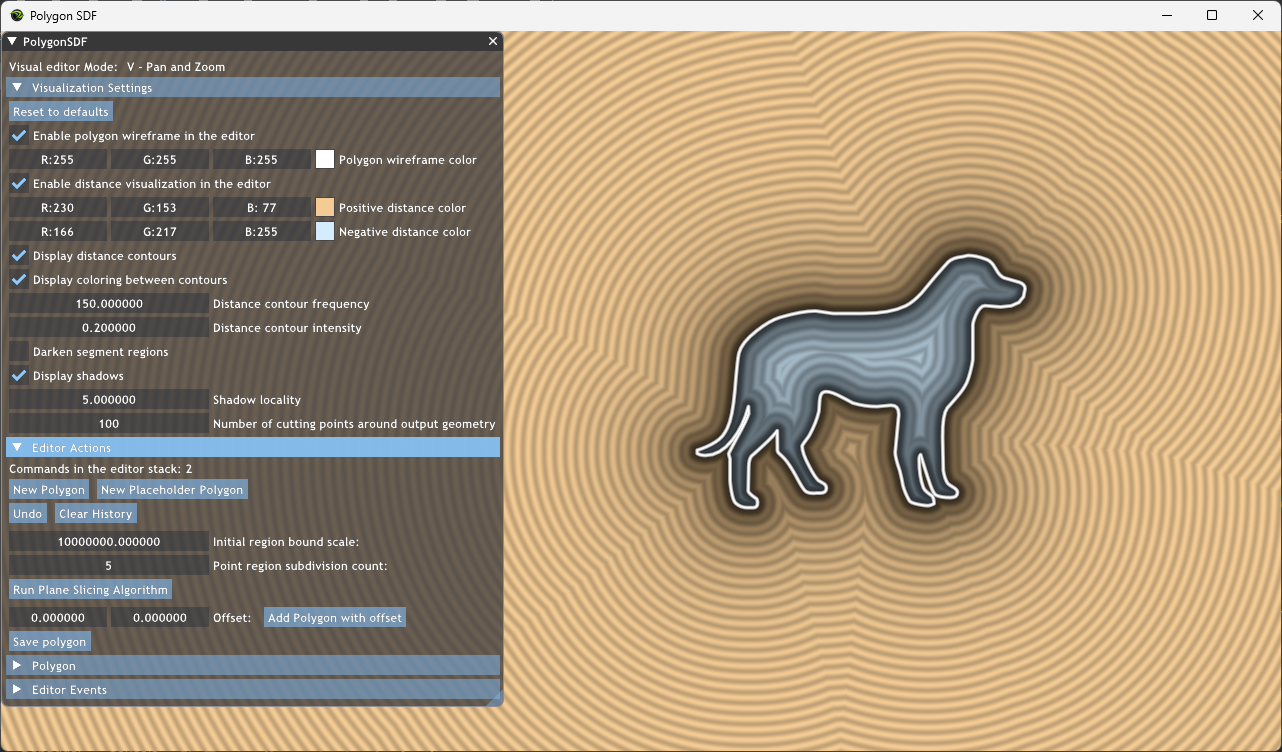
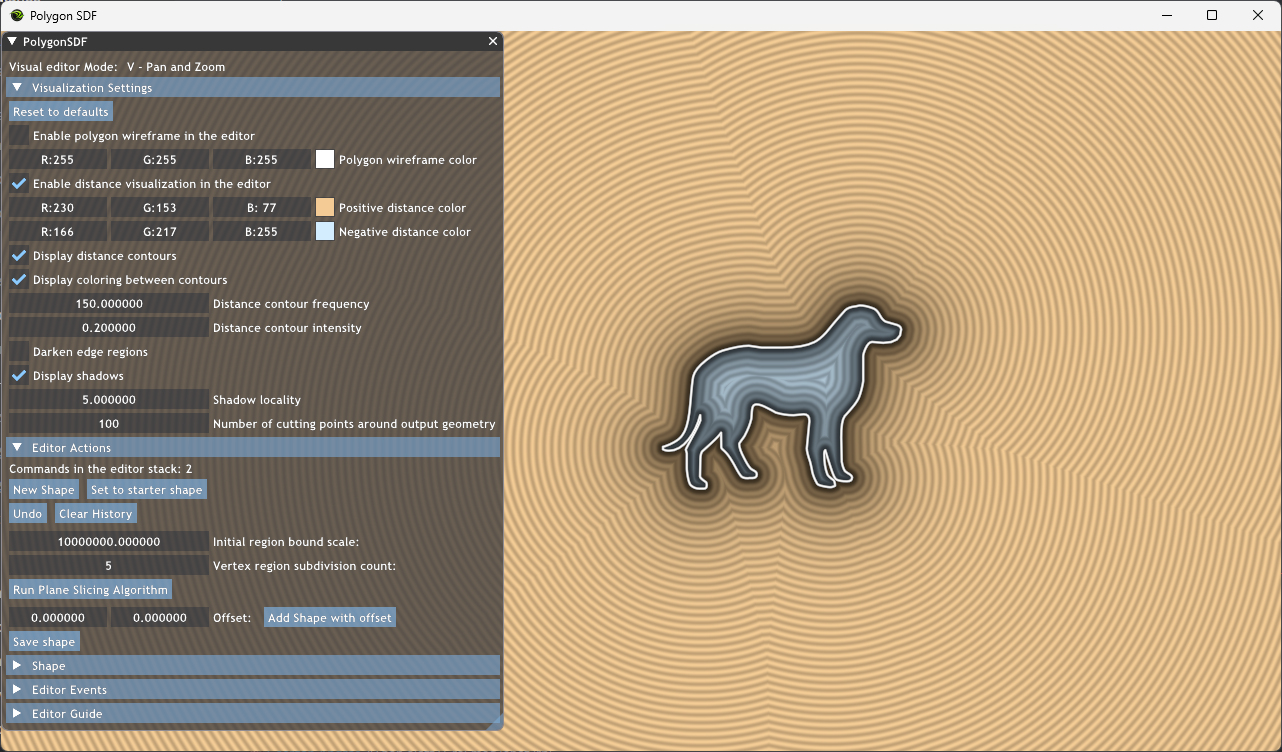
Update the user documentation based on feedback received from my supervisor

diff --git a/Thesis/content/user.tex b/Thesis/content/user.tex
@@ -7,7 +7,7 @@
 Az alkalmazásnak három fő célja van:
 \begin{enumerate}
     \item Biztosítani egy szerkesztőt, amivel bármilyen 2D-s sokszög elkészíthető.
-    \item Lehetőséget adni arra, hogy az elkészített poligonon lefuttassuk az algoritmust.
+    \item Lehetőséget adni arra, hogy az elkészített alazatra lefuttassuk az algoritmust.
     \item Személyreszabható és látványos módon vizualizáni a kiértékelt távolságfüggvényt
 \end{enumerate}
 
@@ -36,9 +36,9 @@ A program nem rendelkezik telepítővel, a mellékelt állomány kicsomagolása 
 
 \section{Szerkesztői nézet}
 
-Az alkalmazás indítása után a felhasználót a szerkesztői nézet fogadja, amelyben egy előre meghatározott poligon jelenik meg. Egy poligon több "alpoligonból" áll, minden alpoligont annak csúcspontjaival adjuk meg, ahol a megadási sorrend határozza meg azt, hogy hogy kötjük őket össze. A távolság előjelét az határozza meg, hogy az adott pont páros vagy páratlan számú sokszögön belül van-e, ami páros esetén pozitív és páratlan esetén negatív távolságot eredményez.
+Az alkalmazás indítása után a felhasználót a szerkesztői nézet fogadja, amelyben egy előre meghatározott alakzat jelenik meg. Egy alakzat több poligonból áll, minden poligont annak csúcspontjaival adjuk meg, ahol a megadási sorrend határozza meg azt, hogy hogy kötjük őket össze. A távolság előjelét az határozza meg, hogy az adott pont páros vagy páratlan számú sokszögön belül van-e, ami páros esetén pozitív és páratlan esetén negatív távolságot eredményez.
 
-A szerkesztőben lehetőségünk van alpoligonok felvételére, mozgatására és törlésére, valamint csúcspontjaik módosítására. Ezen műveleteket kétféle módon is elvégezhetjük, a vizuális szerkesztővel, a billentyűzet és egérmozdulatok segítségével, vagy a GUI-n elhelyezett beviteli mezőkkel és gombokkal. Amikor elkészültünk a szerkesztéssel, az algoritmust is ezen felületen keresztül futtathatjuk le.
+A szerkesztőben lehetőségünk van poligonok felvételére, mozgatására és törlésére, valamint csúcspontjaik módosítására. Ezen műveleteket kétféle módon is elvégezhetjük, a vizuális szerkesztővel, a billentyűzet és egérmozdulatok segítségével, vagy a GUI-n elhelyezett beviteli mezőkkel és gombokkal. Amikor elkészültünk a szerkesztéssel, az algoritmust is ezen felületen keresztül futtathatjuk le.
 
 \begin{figure}[H]
     \centering
@@ -69,19 +69,18 @@ Ebben a szekcióban állíthatjuk be az objektumunk megjelenítését. Bizonyos 
 \textbf{Elérhető beállítások}
 
 \begin{description}
-    \item[Körvonal engedélyezése] Ki- és bekapcsolhatjuk a poligon körvonalának megjelenítését.
-    \item[Körvonal szín] Kiválaszthatjuk, hogy milyen RGB értékkel kerüljön kirajzolásra a körvonal.
-    \item[Távolság megjelenítésének engedélyezése] Szabályozhatjuk, hogy az alkalmazás rajzolja-e a távolságot. Ez egy viszonylag drága beaállítás, mert a minden kiszínezett pixelre a képernyőn ki kell értékelni a távolságot.
-    \item[Távolság pozitív tartományának színe] Megadhatjuk, hogy a pozitív tartomány színezésekor milyen alapszínt használjon a program
-    \item[Távolság negatív tartományának színe] Megadhatjuk, hogy a negatív tartomány színezésekor milyen alapszínt használjon a program
-    \item[Távolsági kontúrok megjelenítése] Kontúrok megjelenítésének szabályozása.
-    \item[Kontúrok közötti tartomány kitöltése] Beállítás a kontúrok közötti tartomány színezésére. Amennyiben le van tiltva a kontúrok közötti terület nem kerül színezésre.
-    \item[Távolsági kontúrvonalak frekvenciája] A távolság megjelenítéséhez használt kontúrvonalak gyakorisága. A magasabb megadott érték sűrűbben elhelyezkedő kontúrvonalakat eredményez.
-    \item[Távolsági kontúrvonalak intenzitása] Megadja, hogy színezéskor mennyivel súlyozzuk a kontúr színét a háttérhez képest. Nulla értékű intenzitással nincsenek kontúrvonalak, egy értéknél pedig nincs színezés közöttük.
-    \item[Árnyék megjelenítése] Ki- és bekapcsolhatjuk az árnyékok rajzolását a poligon körvonala mentén. A háromdimenziós nézetben fontos szerepe van az árnyéknak, mert információt ad a geometria mélységéről.
-    \item[Árnyék lokalitása] A beállított értékkel megszabhatjuk, hogy mekkora területre terjedjen ki az árnyék. Nagyobb érték esetén az árnyékolt rész kisebb, gyorsabban veszít az intenzitásából, ahogy a távolság növekedik.
-    \item[Szakaszokhoz tartozó régiók elsötétítése] Ezzel a beállítással látványosabbá tehetjük azt, hogy egy adott pontban a poligon egy szakaszához, vagy egy csúcsához van-e közelebb. A szakaszokhoz közelebbi pontokhoz tartozó pixelek sötétebb színt kapnak.
-    \item[Az algoritmus kimenetének körbevágásához használt pontok száma] Az algoritmus egy \textit{"végtelenül nagy"} síkkal dolgozik. Megjelenítés előtt ezt a síkot az alkalmazás a poligon középpontja körül egy a poligon méretétől függő sugarú körív mentén körbevágja. A beviteli mezővel a vágáshoz használt pontok számát szabályozhatjuk.
+    \item[Enable polygon wireframe in the editor] \textit{Körvonal engedélyezése} -- Ki- és bekapcsolhatjuk az alakzat körvonalának megjelenítését.
+    \item[Polygon wireframe color] \textit{Körvonal szín} -- Kiválaszthatjuk, hogy milyen RGB értékkel kerüljön kirajzolásra a körvonal.
+    \item[Enable distance visualization in the editor] \textit{Távolság megjelenítése} -- Szabályozhatjuk, hogy az alkalmazás rajzolja-e a távolságot. Ez egy viszonylag drága beaállítás, mert a minden kiszínezett pixelre a képernyőn ki kell értékelni a távolságot.
+    \item[Positive distance color] \textit{Távolság pozitív tartományának színe} -- Megadhatjuk, hogy a pozitív tartomány színezésekor milyen alapszínt használjon a program
+    \item[Negative distance color] \textit{Távolság negatív tartományának színe} -- Megadhatjuk, hogy a negatív tartomány színezésekor milyen alapszínt használjon a program
+    \item[Display distance contours] \textit{Távolsági kontúrok megjelenítése} -- A beállított értékkel megszabhatjuk, hogy mekkora területre terjedjen ki az árnyék. Nagyobb érték esetén az árnyékolt rész kisebb, gyorsabban veszít az intenzitásából, ahogy a távolság növekedik.
+    \item[Display coloring between contours] \textit{Kontúrok közötti tartomány kitöltése} -- Ezzel a beállítással látványosabbá tehetjük azt, hogy egy adott pontban az alakzat egy éléhez, vagy egy csúcsához van-e közelebb. Az élekhez közelebbi pontokhoz tartozó pixelek sötétebb színt kapnak.
+    \item[Distance contour frequency] \textit{Távolsági kontúrvonalak frekvenciája} -- Kontúrok megjelenítésének szabályozása.
+    \item[Distance contour intensity] \textit{Távolsági kontúrvonalak intenzitása} -- Beállítás a kontúrok közötti tartomány színezésére. Amennyiben le van tiltva a kontúrok közötti terület nem kerül színezésre.
+    \item[Display shadows] \textit{Árnyék megjelenítése} -- A távolság megjelenítéséhez használt kontúrvonalak gyakorisága. A magasabb megadott érték sűrűbben elhelyezkedő kontúrvonalakat eredményez.
+    \item[Shadow locality] \textit{Árnyék lokalitása} -- Megadja, hogy színezéskor mennyivel súlyozzuk a kontúr színét a háttérhez képest. Nulla értékű intenzitással nincsenek kontúrvonalak, egy értéknél pedig nincs színezés közöttük.
+    \item[Darken segment regions] \textit{Élekhez tartozó régiók elsötétítése} -- Ki- és bekapcsolhatjuk az árnyékok rajzolását az alakzat körvonala mentén. A háromdimenziós nézetben fontos szerepe van az árnyéknak, mert információt ad a geometria mélységéről.        \item[Number of cutting points around output geometry] \textit{Az algoritmus kimenetének körbevágásához használt pontok száma} -- Az algoritmus egy \textit{"végtelenül nagy"} síkkal dolgozik. Megjelenítés előtt ezt a síkot az alkalmazás az alakzat középpontja körül egy az alakzat méretétől függő sugarú körív mentén körbevágja. A beviteli mezővel a vágáshoz használt pontok számát szabályozhatjuk.
 \end{description}
 
 \begin{figure}[H]
@@ -94,14 +93,14 @@ Ebben a szekcióban állíthatjuk be az objektumunk megjelenítését. Bizonyos 
 \begin{figure}[H]
     \centering
     \includegraphics[width=0.85\linewidth]{images/darken_segment_regions.png}
-    \caption{Szakaszokhoz tartozó régiók elsötétítése}
+    \caption{Élekhez tartozó régiók elsötétítése}
     \label{fig:darken_segment_regions-1}
 \end{figure}
 
 \begin{figure}[H]
     \centering
     \includegraphics[width=0.85\linewidth]{images/outline_only.png}
-    \caption{Poligon "wireframe" nézete}
+    \caption{Alakzat "wireframe" nézete}
     \label{fig:outline_only-1}
 \end{figure}
 
@@ -147,14 +146,14 @@ Ezen szekció alatt általános szerkesztői műveletek találhatóak, mint pél
 \textbf{Elérhető funckionalitás}
 
 \begin{description}
-    \item[Új poligon hozzáadása] A fáljrendszerből tölt be egy sokszöget a meglévőt lecserélve, amennyiben a megadott JSON file a megfelelő formátumban van, ellenkező esetben egy felugró ablakkal értesül a felhasználó, hogy a művelet sikertelen.
-    \item[Új kezdőpoligon] A jelenlegi poligont lecseréli a kezdőpoligonra.
-    \item[Visszalépés] Az utolsó lépés visszavonása, amennyiben lehetséges.
-    \item[Előzmények törlése] A szerkesztői előzmények törlése, a köztes állapotokra fenntartott memória felszabadításához.
-    \item[A vágásokat végző algoritmus futtatása] Ha a poligon megfelel az algoritmus előfeltételének, tehát nincsenek egymást metsző vagy egymásba eső szakaszok, akkor az alkalmazás végrehajtja. Ellenkező esetben egy felugró ablak jelzi, hogy a művelet sikertelen.
-    \item[Poligon hozzáfűzése eltolással] A fáljrendszerből tölt be egy sokszöget a meglévőhöz hozzáfűzve azt, a megadott X és Y koordinátákkal eltolva. Amennyiben a megadott JSON file a megfelelő formátumban van, ellenkező esetben egy felugró ablakkal értesül a felhasználó, hogy a művelet sikertelen.
-    \item[Poligon mentése] A szerkesztett poligon jelenlegi állapotát a fáljrendszerbe menti JSON formátumban.
-    \item[Algoritmuskimenet mentése] A poligonhoz tartozó algoritmuskimenetet lementi a fáljrendszerbe menti JSON formátumban, ha az algoritmus végre lett hajtva, ellenkező esetben nem kerül megjelenítésre a gomb.
+    \item[New shape] \textit{Új alakzat hozzáadása} -- A fáljrendszerből tölt be egy sokszöget a meglévőt lecserélve, amennyiben a megadott JSON file a megfelelő formátumban van, ellenkező esetben egy felugró ablakkal értesül a felhasználó, hogy a művelet sikertelen.
+    \item[Set to starter shape] \textit{Alakzat beállítása a kezdőalakzatra} -- A jelenlegi alakzatot lecseréli a kezdőalakzatra.
+    \item[Undo] \textit{Visszalépés} -- Az utolsó lépés visszavonása, amennyiben lehetséges.
+    \item[Clear history] \textit{Előzmények törlése} -- A szerkesztői előzmények törlése, a köztes állapotokra fenntartott memória felszabadításához.
+    \item[Run Plane Slicing Algorithm] \textit{A vágásokat végző algoritmus futtatása} -- Ha az alakzat megfelel az algoritmus előfeltételének, tehát nincsenek egymást metsző vagy egymásba eső élek, akkor az alkalmazás végrehajtja. Ellenkező esetben egy felugró ablak jelzi, hogy a művelet sikertelen.
+    \item[Add Shape With Offset] \textit{Alazkat hozzáfűzése eltolással} -- A fáljrendszerből tölt be egy sokszöget a meglévőhöz hozzáfűzve azt, a megadott X és Y koordinátákkal eltolva. Amennyiben a megadott JSON file a megfelelő formátumban van, ellenkező esetben egy felugró ablakkal értesül a felhasználó, hogy a művelet sikertelen.
+    \item[Save shape] \textit{Alakzat mentése} -- A szerkesztett alakzat jelenlegi állapotát a fáljrendszerbe menti JSON formátumban.
+    \item[Save Algorithm Output] \textit{Algoritmuskimenet mentése} -- Az alakzathoz tartozó algoritmuskimenetet lementi a fáljrendszerbe menti JSON formátumban, ha az algoritmus végre lett hajtva, ellenkező esetben nem kerül megjelenítésre a gomb.
 \end{description}
 
 \begin{figure}[H]
@@ -164,63 +163,76 @@ Ezen szekció alatt általános szerkesztői műveletek találhatóak, mint pél
     \label{fig:usecase_editor_actions-1}
 \end{figure}
 
-\subsection{Poligon műveletek}
+\subsection{Alakzat műveletek}
 
-A poligon tartalmának módosítására létrehozott műveletek találhatóak a szekción belül.
+A alakzat tartalmának módosítására létrehozott műveletek találhatóak a szekción belül.
 
 \begin{figure}[H]
     \centering
-    \includegraphics[width=0.85\linewidth]{images/polygon_actions.png}
-    \caption{Poligon műveletek GUI}
-    \label{fig:polygon_actions-1}
+    \includegraphics[width=0.85\linewidth]{images/shape_actions.png}
+    \caption{Alakzat műveletek GUI}
+    \label{fig:shape_actions-1}
 \end{figure}
 
 \textbf{Elérhető funckionalitás}
 
 \begin{description}
-    \item[Új csoport hozzáadása] Egy új alpoligon kerül hozzáadásra. Az új csoport felhasználható lyukak vagy további elkülönülő alakzat elkészítésére.
-    \item[Csoport > Csoport törlése] Törli az adott csoportot, azzal a feltétellel, hogy egy poligonban legalább egy csoportnak szerepelnie kell.
-    \item[Csoport > Csúcs hozzáadása] A megadott pozícióval hozzáad egy csúcspontot a csoport végére.
-    \item[Csoport > Csoport eltolása] A megadott pozícióval eltolja minden csúcsát a csoportnak.
-    \item[Csoport > Csúcs > Törlés] Eltávolítja az adott csúcsot.
+    \item[New Outline] \textit{Új poligon hozzáadása} -- Egy új poligon kerül hozzáadásra. Az új poligon felhasználható lyukak vagy további elkülönülő alakzat elkészítésére.
+    \item[Shape Outline > Delete Outline] \textit{Poligon > Poligon törlése} -- Törli az adott poligont, azzal a feltétellel, hogy egy alakzatban legalább egy poligonnak szerepelnie kell.
+    \item[Shape Outline > Add Vertex] \textit{Poligon > Csúcs hozzáadása} -- A megadott pozícióval hozzáad egy csúcspontot a poligon végére.
+    \item[Shape Outline > Offset Outline] \textit{Poligon > Poligon eltolása} -- A megadott pozícióval eltolja minden csúcsát a poligonnak.
+    \item[Shape Outline > Vertex > Delete Vertex] \textit{Poligon > Csúcs > Törlés} -- Eltávolítja az adott csúcsot.
 \end{description}
 
 \begin{figure}[H]
     \centering
     \includegraphics[width=.6\linewidth]{images/usecase_polygon_actions.png}
-    \caption{Poligon műveletek felhasználói esetek}
+    \caption{Alakzat műveletek felhasználói esetek}
     \label{fig:usecase_polygon_actions-1}
 \end{figure}
 
 \subsection{Eseménynapló}
 
-A szerkesztés során számos esemény kerül kiváltásra különböző források hatására. Az eseménynaplóban megvizsgálhatunk minden bejövő eseményt valós időben. Az ismétlődő szignatúrák számozással csoportosításra kerülnek, mivel bizonyos esetekben másodpercenként akár több tíz is kiváltódhat, például amikor a felhasználó az egérrel mozgat egy csúcspontot, vagy egy alpoligont.
+A szerkesztés során számos esemény kerül kiváltásra különböző források hatására. Az eseménynaplóban megvizsgálhatunk minden bejövő eseményt valós időben. Az ismétlődő szignatúrák számozással csoportosításra kerülnek, mivel bizonyos esetekben másodpercenként akár több tíz is kiváltódhat, például amikor a felhasználó az egérrel mozgat egy csúcspontot, vagy egy poligont.
 
 \begin{figure}[H]
     \centering
     \includegraphics[width=1\linewidth]{images/editor_events.png}
-    \caption{Poligon műveletek GUI}
+    \caption{Eseménynapló GUI}
     \label{fig:editor_events-1}
 \end{figure}
 
+
 \textbf{Elérhető funckionalitás}
 
 \begin{description}
-    \item[Napló törlése] Az összes bejegyzés törlése a naplóból.
+    \item[Clear History] \textit{Napló törlése} Az összes bejegyzés törlése a naplóból.
 \end{description}
+
+\subsection{Parancslista}
+
+A parancslista menüben megtekinthetjük az összes elérhető billentyűparancsot a szerkesztőprogramhoz.
+
+\begin{figure}[H]
+    \centering
+    \includegraphics[width=1\linewidth]{images/user_guide.png}
+    \caption{Parancslista GUI}
+    \label{fig:user_guide-1}
+\end{figure}
+
 
 \section{Vizuális szerkesztő}\label{sec:visual_editor}
 
-A vizuális szerkesztő lehetőséget ad arra, hogy szabadkézzel szerkesszük a sokszögünket. Billentyűzet segítségével válthatunk módok (eszközök) között, majd az egérrel interakcióba léphetünk a poligonnal vagy a vászonnal. A vizuális szerkesztőn keresztül válthatunk a háromdimenziós nézetre is.
+A vizuális szerkesztő lehetőséget ad arra, hogy szabadkézzel szerkesszük a sokszögünket. Billentyűzet segítségével válthatunk módok (eszközök) között, majd az egérrel interakcióba léphetünk az alakzattal vagy a vászonnal. A vizuális szerkesztőn keresztül válthatunk a háromdimenziós nézetre is.
 
 \textbf{Elérhető funckionalitás}
 
 \begin{description}
-    \item[Csúcspontok mozgatása (M billentyű)] Csúcspontok mozgatása "Drag and drop". Egérgomb lenyomásakor a program kiválasztja a legközelebbi csúcspontot egy megadott távolságkorláton belül és mozgatás hatására frissíti a pozíciójat.
-    \item[Csoportok mozgatása (G billentyű)]  Csoportok mozgatása "Drag and drop". Egérgomb lenyomásakor a program kiválasztja a legközelebbi csúcsponthoz tartozó csoportot egy megadott távolságkorláton belül és mozgatás hatására frissíti a csoportban lévő csúcspontok pozícióját.
-    \item[Vászon mozgatása (V billentyű)] Az egérgomb nyomvatartásával és mozgatással mozgatni lehet a vászonon a teljes poligont. A görgő segítségével pedig nagyítani és zsugorítani a méretén. Ez a művelet nem módosít a poligon állapotán.
-    \item[Csúcspont beszúrása (I billentyű)] A bal egérgomb lenyomásával elhelyez egy csúcspontot a kattintás pozíciójához legközelebbi kettő, azonos csoporthoz tartozó csúcspont közé. A jobb egérgomb lenyomásával a legközelebbi csúcspont törlésre kerül, amennyiben egy megadott távolságon belül van.
-    \item[Váltás a háromdimenziós algoritmus kimenet nézetre (D billentyű)] Ha az algoritmus végrehajtásra került a poligon jelenlegi állapotán, akkor átvált a háromdimenziós nézetre, egyébként egy felugró ablakban jelzi, hogy nincs mit megjeleníteni.
+    \item[Csúcspontok mozgatása (M billentyű)] Csúcspontok "Drag and drop" mozgatása. Egérgomb lenyomásakor a program kiválasztja a legközelebbi csúcspontot egy megadott távolságkorláton belül és mozgatás hatására frissíti a pozíciójat.
+    \item[Poligon mozgatása (G billentyű)]  Poligonok "Drag and drop" mozgatása. Egérgomb lenyomásakor a program kiválasztja a legközelebbi csúcsponthoz tartozó poligont egy megadott távolságkorláton belül és mozgatás hatására frissíti a poligonban lévő csúcspontok pozícióját.
+    \item[Vászon mozgatása (V billentyű)] Az egérgomb nyomvatartásával és mozgatással mozgatni lehet a vászonon a teljes alakzatot. A görgő segítségével pedig nagyítani és zsugorítani a méretén. Ez a művelet nem módosít az alakzat állapotán.
+    \item[Csúcspont beszúrása (I billentyű)] A bal egérgomb lenyomásával elhelyez egy csúcspontot a kattintás pozíciójához legközelebbi kettő, azonos poligonhoz tartozó csúcspont közé. A jobb egérgomb lenyomásával a legközelebbi csúcspont törlésre kerül, amennyiben egy megadott távolságon belül van.
+    \item[Váltás a háromdimenziós algoritmus kimenet nézetre (D billentyű)] Ha az algoritmus végrehajtásra került az alakzat jelenlegi állapotán, akkor átvált a háromdimenziós nézetre, egyébként egy felugró ablakban jelzi, hogy nincs mit megjeleníteni.
 \end{description}
 
 \begin{figure}[H]
@@ -230,16 +242,16 @@ A vizuális szerkesztő lehetőséget ad arra, hogy szabadkézzel szerkesszük a
     \label{fig:usecase_visual_editor-1}
 \end{figure}
 
-\section{Poligon háromdimenziós nézete}
+\section{Alakzat háromdimenziós nézete}
 
-Az algoritmus kimenetével egy háromdimenziós objektumként számol az alkalmazás megjelenítéskor, ahol a mélységi komponens az előjeles távolság abszolútértéke. Ezt a tulajdonságot kihasználva ebben a nézetben a térben mozgatva tekinthetjük meg poligonunkat.
+Az algoritmus kimenetével egy háromdimenziós objektumként számol az alkalmazás megjelenítéskor, ahol a mélységi komponens az előjeles távolság abszolútértéke. Ezt a tulajdonságot kihasználva ebben a nézetben a térben mozgatva tekinthetjük meg alakzatunkat.
 
-Ebben az állapotban nem szerkeszthető a poligon, ezért a teljes GUI el van rejtve. A szerkesztői felületre bármelyik \ref{sec:visual_editor}-ban említett eszközhöz rendelt billentyű lenyomásával átválthatunk.
+Ebben az állapotban nem szerkeszthető az alakzat, ezért a teljes GUI el van rejtve. A szerkesztői felületre bármelyik \ref{sec:visual_editor}-ban említett eszközhöz rendelt billentyű lenyomásával átválthatunk.
 
 \begin{figure}[H]
     \centering
     \includegraphics[width=1\linewidth]{images/3d_view.png}
-    \caption{Poligon háromdimenziós nézete}
+    \caption{Alakzat háromdimenziós nézete}
     \label{fig:3d_view-1}
 \end{figure}
 

diff --git a/Thesis/content/intro.tex b/Thesis/content/intro.tex
@@ -2,27 +2,17 @@
 \label{ch:intro}
 
 \section{Motiváció}\label{sec:motivacio}
-A számítógépes grafikában az előjeles távolságfüggvények rendkívül sokoldalúan felhasználhatóak.
-Például, sugárkövetéses algoritmusokban használják objektumok reprezentálására, lágy árnyékok hatékony számítására vagy szöveg megjelenítésére.
-Ennek következtében számos módszert fejlesztettek ki az előjeles távolságfüggvény meghatározására.
+A számítógépes grafikában az előjeles távolságfüggvények rendkívül sokoldalúan felhasználhatóak. Például, sugárkövetéses algoritmusokban használják objektumok reprezentálására, lágy árnyékok hatékony számítására vagy szöveg megjelenítésére. Ennek következtében számos módszert fejlesztettek ki az előjeles távolságfüggvény meghatározására.
 
 A szakdolgozatom keretein belül egy olyan algoritmust implementáltam, amely pontos előjeles távolságfüggvényt szolgáltat egy kétdimenziós sokszög számára.
 
 \section{Áttekintés}\label{sec:attekintes}
 A szoftverben a szerkesztői felület segítségével elkészített poligonokon futtathatjuk az algoritmust és menthetjük a kimenetet.
 
-A szerkesztőben két módon léphetünk interakcióba a szerkesztett sokszöggel: beviteli mezők és gombok segítségével, valamint billentyűkombinációkkal és egérkattintásokkal.
-Ezekkel a funkciókkal a felhasználó akár a csúcspontok szintjén is módosíthatja a poligont.
-Lehetséges a meglévő sokszögeket is betölteni a fájlrendszerből, így előre elkészített, magasabb szintű építőblokkokkal is dolgozhatunk.
+A szerkesztőben két módon léphetünk interakcióba a szerkesztett sokszöggel: beviteli mezők és gombok segítségével, valamint billentyűkombinációkkal és egérkattintásokkal. Ezekkel a funkciókkal a felhasználó akár a csúcspontok szintjén is módosíthatja a poligont. Lehetséges a meglévő sokszögeket is betölteni a fájlrendszerből, így előre elkészített, magasabb szintű építőblokkokkal is dolgozhatunk.
 
-A szerkesztés közben valós időben megjeleníthetjük a távolságfüggvényt.
-A program számos beállítást kínál a felhasználó számára, amelyekkel testreszabhatjuk a megjelenítést.
-Lehetőség van a színezés, árnyékolás és kontúrvonalak kinézetének meghatározására.
-A távolság vizualizációját ki is kapcsolhatjuk, mivel nagy csúcspontszámú sokszögek esetén erőforrásigényes lehet.
-Ilyenkor csak a körvonal kerül megjelenítésre.
+A szerkesztés közben valós időben megjeleníthetjük a távolságfüggvényt. A program számos beállítást kínál a felhasználó számára, amelyekkel testreszabhatjuk a megjelenítést. Lehetőség van a színezés, árnyékolás és kontúrvonalak kinézetének meghatározására. A távolság vizualizációját ki is kapcsolhatjuk, mivel nagy csúcspontszámú sokszögek esetén erőforrásigényes lehet. Ilyenkor csak a körvonal kerül megjelenítésre.
 
-Az algoritmus a síkot régiókra osztja fel, amelyeken belül triviálisan meghatározható a távolság.
-Egy kétdimenziós sokszöghöz egy háromdimenziós alakzatot rendel, ahol a mélységi komponens az előjeles távolság abszolútértékéből származik.
-Az értékelés során ez a tulajdonság rendkívül fontos, mivel a régiók gyakran átfedésben vannak egymással, és a helyes távolságértéket a Z-puffer algoritmus segítségével kapjuk meg a rajzolás során.
+Az algoritmus a síkot régiókra osztja fel, amelyeken belül triviálisan meghatározható a távolság. Egy kétdimenziós sokszöghöz egy háromdimenziós alakzatot rendel, ahol a mélységi komponens az előjeles távolság abszolútértékéből származik. Az értékelés során ez a tulajdonság rendkívül fontos, mivel a régiók gyakran átfedésben vannak egymással, és a helyes távolságértéket a Z-puffer algoritmus segítségével kapjuk meg a rajzolás során.
 
 A program rendelkezik egy külön nézettel is, ahol megtekinthetjük a generált háromdimenziós objektumot.
